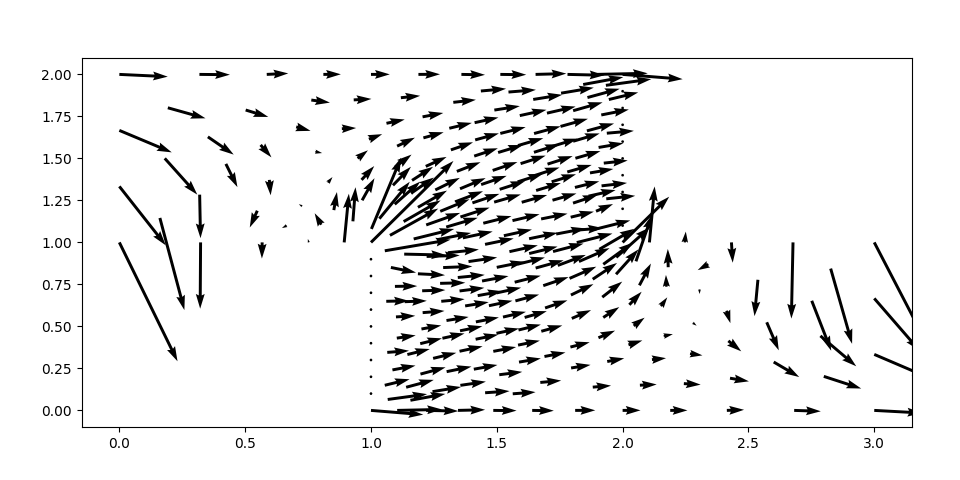
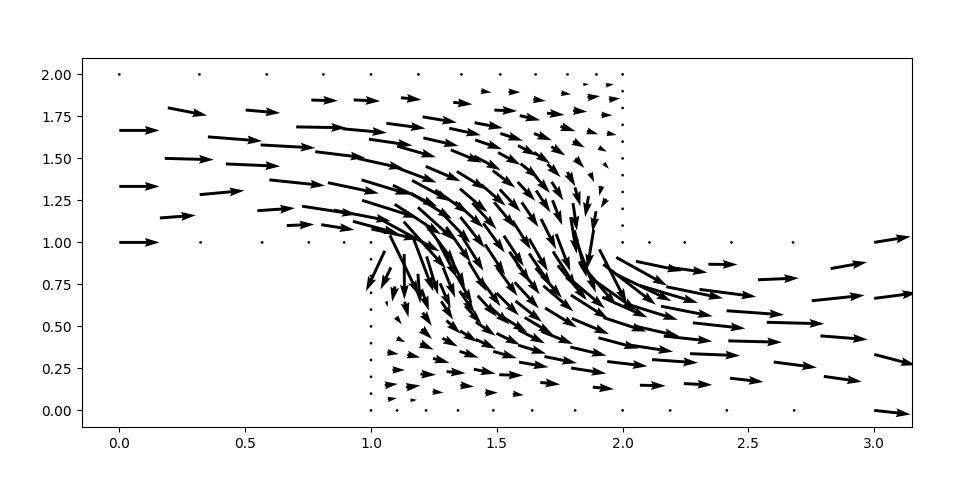
--Test Cases: -Successfully implemented Step and Obstacle cases.

diff --git a/main_setups/Run_step_flow.py b/main_setups/Run_step_flow.py
@@ -4,8 +4,8 @@ import numpy as np
 
 # Define boundary conditions and parameters
 vel = 1.
-dt = 0.5
-total_time = 10.
+dt = 0.1
+total_time = 5.
 
 # Set liquid parameters or declare liquid
 # density = 1e3
@@ -23,10 +23,13 @@ sides_vertical = np.array([
     19, 20, 21, 22, 23, 24, 25, 26, 27,
     43, 44, 45, 46, 47, 48, 49, 50, 51,
 ])
-sides_horizontal = np.array([
-    3, 28, 29, 30, 31,
+sides_horizontal_right = np.array([
+    3, 28, 29, 30, 31
+])
+sides_horizontal_left = np.array([
     8, 52, 53, 54, 55
 ])
+sides = np.append(sides_vertical, np.append(sides_horizontal_right, sides_horizontal_left))
 
 # -------------------------------------------------- PSI ---------------------------------------------------------------
 # Define boundary conditions for psi
@@ -52,8 +55,9 @@ xy_indices, xy_values, xy_types = TccLib.build_boundary_conditions(mesh, boundar
 mesh.new_boundary_condition("psi", point_index=xy_indices, values=xy_values, type_of_boundary=xy_types)
 
 # Set boundary conditions for obstacle
-# mesh.new_boundary_condition("psi", point_index=sides_horizontal, values=mesh.y[sides_horizontal], type_of_boundary=True)
-mesh.new_boundary_condition("psi", point_index=sides_vertical, values=0., type_of_boundary=True)
+mesh.new_boundary_condition("psi", point_index=sides_horizontal_left, values=0., type_of_boundary=True)
+mesh.new_boundary_condition("psi", point_index=sides_horizontal_right, values=1., type_of_boundary=True)
+mesh.new_boundary_condition("psi", point_index=sides_vertical, values=0., type_of_boundary=False)
 
 # -------------------------------------------------- VEL X -------------------------------------------------------------
 # Define boundary conditions for vel_x
@@ -79,8 +83,7 @@ xy_indices, xy_values, xy_types = TccLib.build_boundary_conditions(mesh, boundar
 mesh.new_boundary_condition("vel_x", point_index=xy_indices, values=xy_values, type_of_boundary=xy_types)
 
 # Set boundary conditions for obstacle
-mesh.new_boundary_condition("vel_x", point_index=sides_horizontal, values=0., type_of_boundary=True)
-mesh.new_boundary_condition("vel_x", point_index=sides_vertical, values=0., type_of_boundary=True)
+mesh.new_boundary_condition("vel_x", point_index=sides, values=0., type_of_boundary=True)
 
 # -------------------------------------------------- VEL Y -------------------------------------------------------------
 # Define boundary conditions for vel_y
@@ -106,8 +109,7 @@ xy_indices, xy_values, xy_types = TccLib.build_boundary_conditions(mesh, boundar
 mesh.new_boundary_condition("vel_y", point_index=xy_indices, values=xy_values, type_of_boundary=xy_types)
 
 # Set boundary conditions for obstacle
-mesh.new_boundary_condition("vel_y", point_index=sides_horizontal, values=0., type_of_boundary=True)
-mesh.new_boundary_condition("vel_y", point_index=sides_vertical, values=0., type_of_boundary=True)
+mesh.new_boundary_condition("vel_y", point_index=sides, values=0., type_of_boundary=True)
 
 # Solve for FEM velocity field solution
 velocity_x, velocity_y = TccLib.solve_velocity_field(mesh, dt=dt, total_time=total_time, save_each_frame=True,
